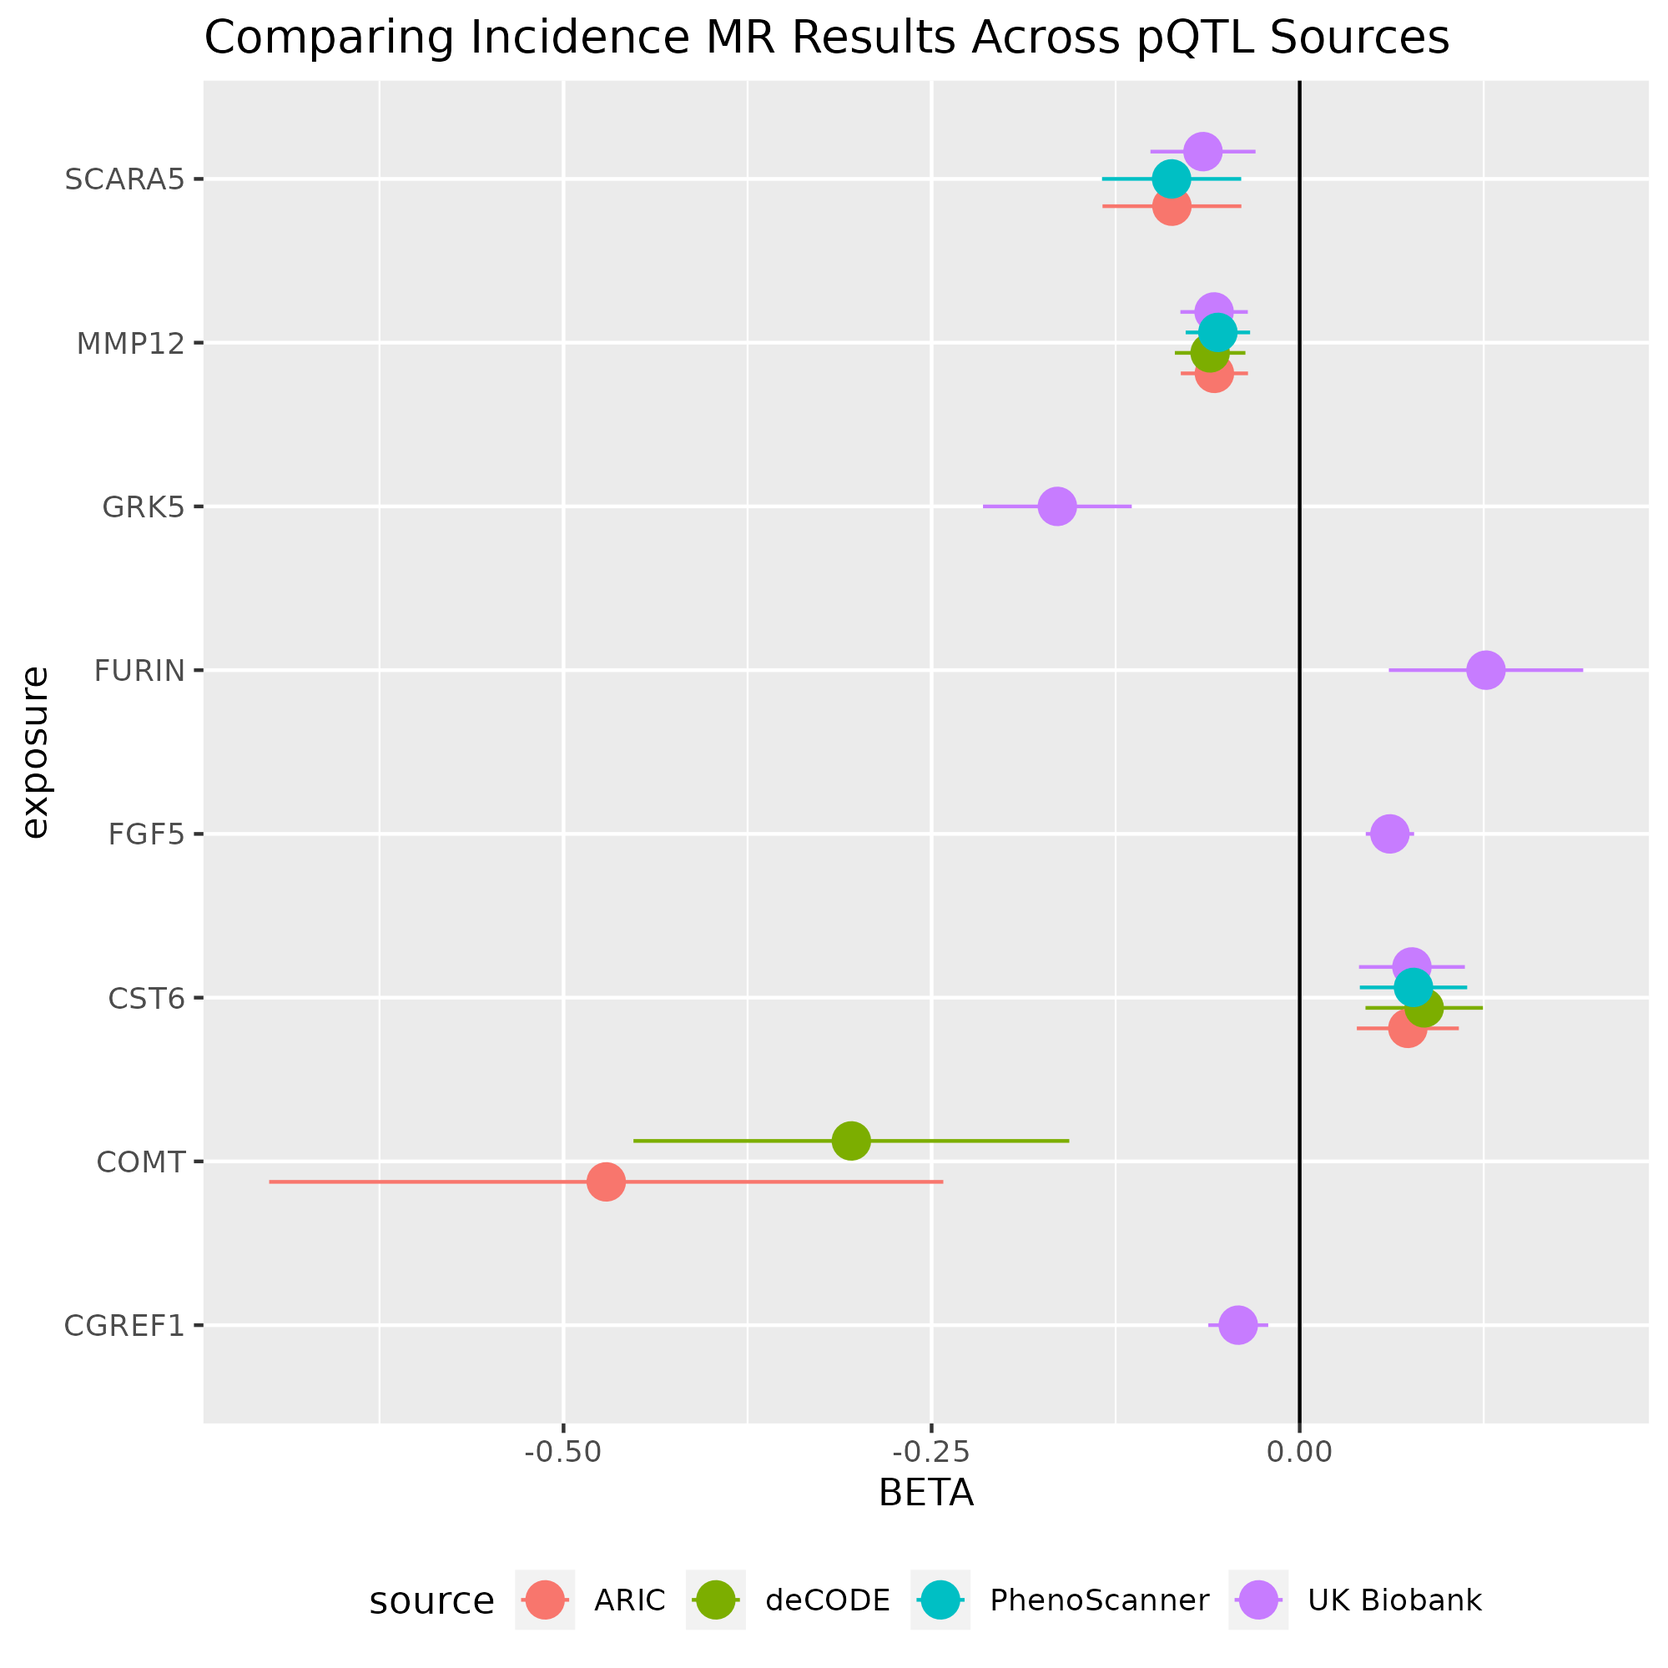
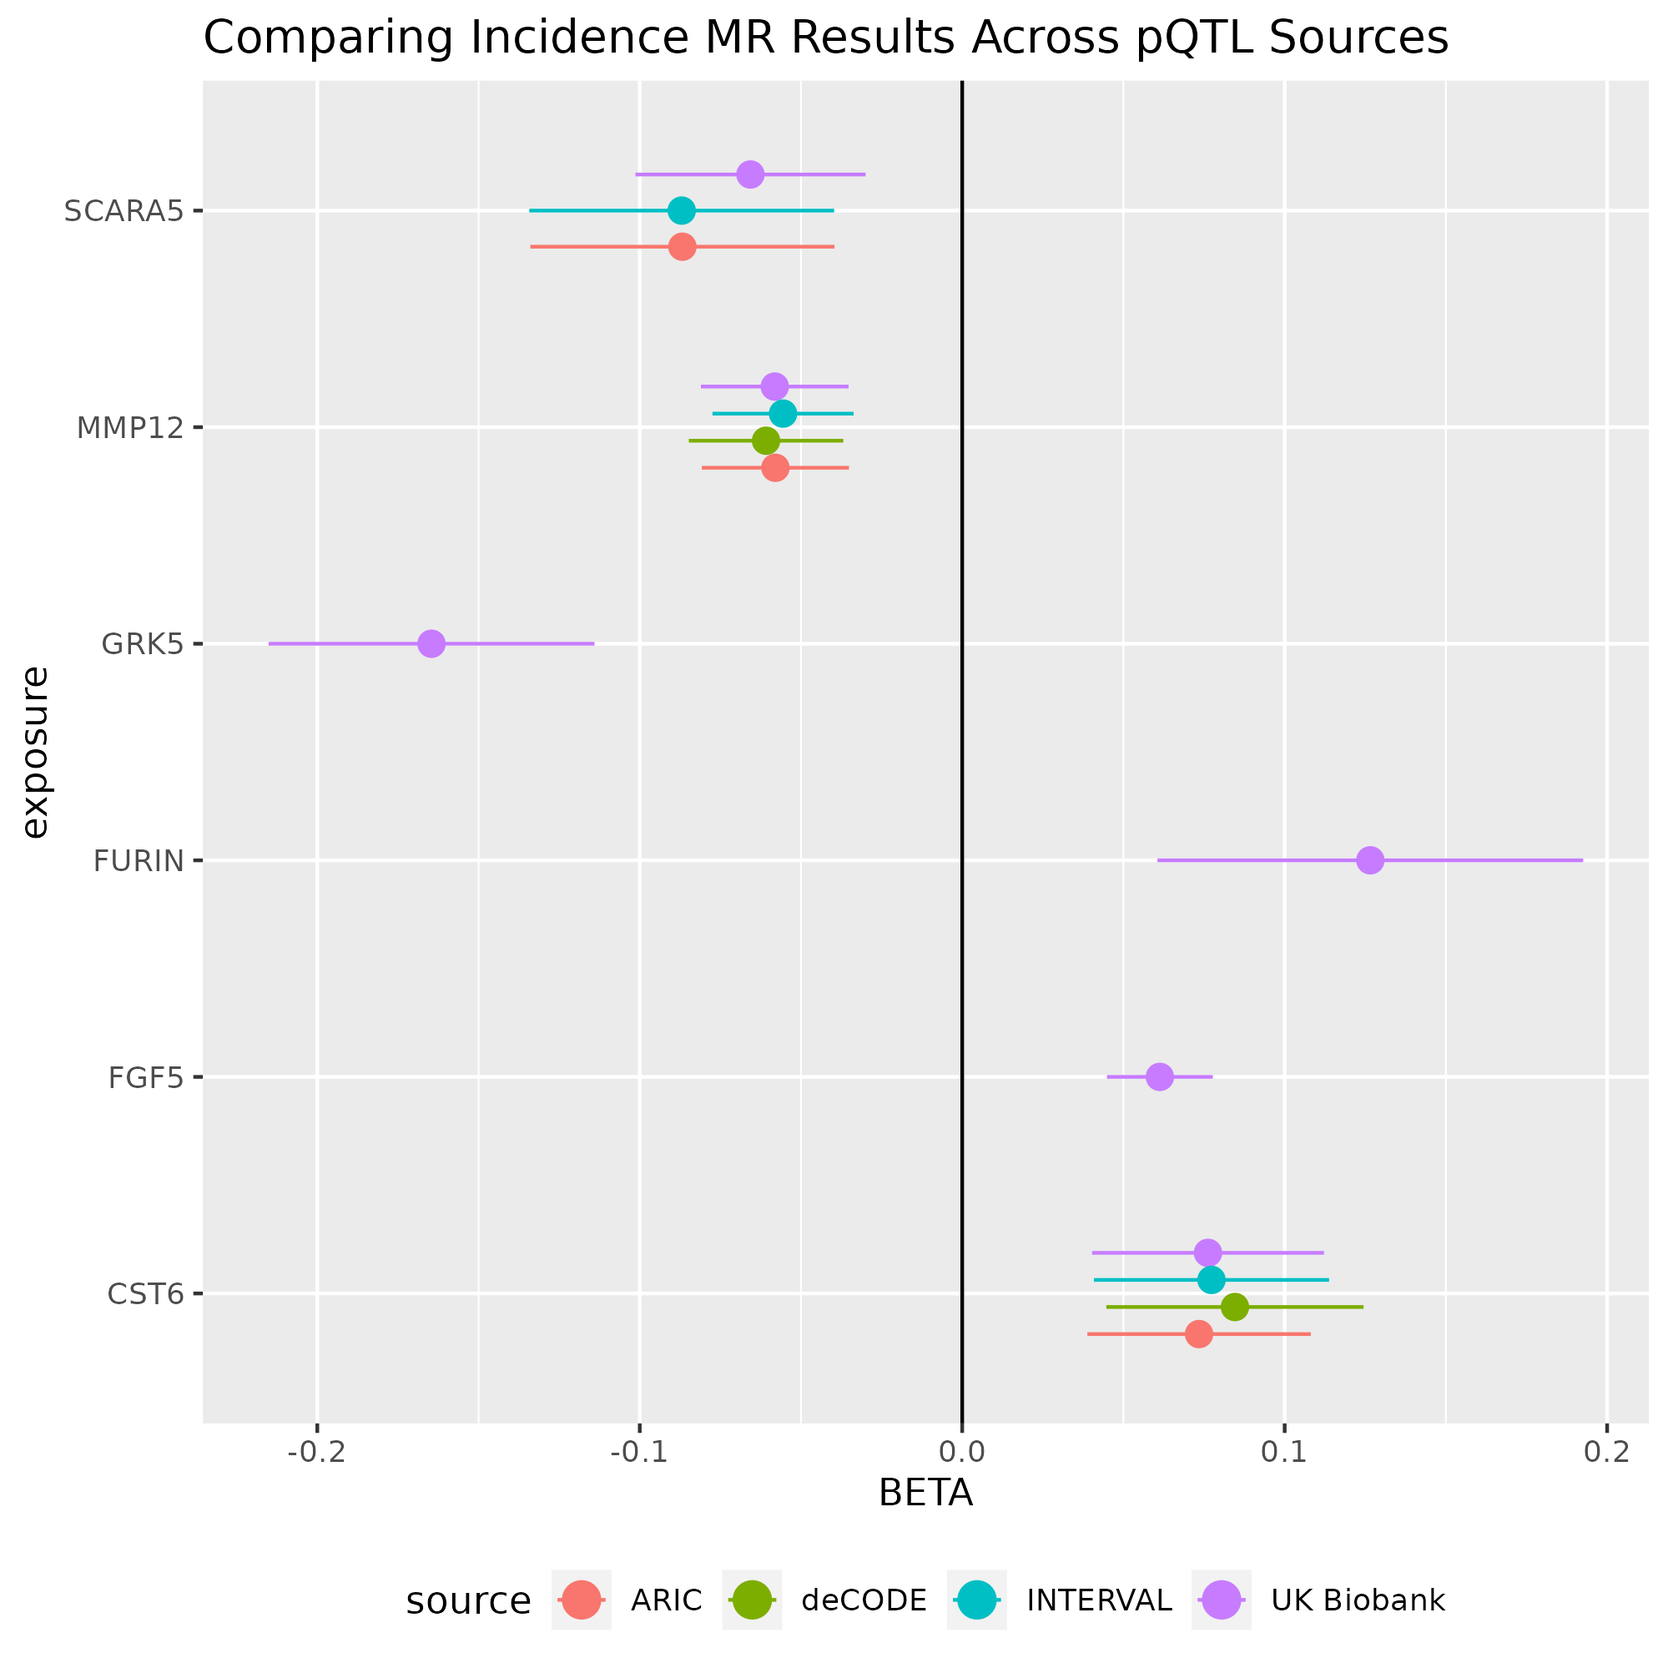
Updating interesting_pqtls.html file to show

diff --git a/docs/interesting_pqtls.html b/docs/interesting_pqtls.html
@@ -14613,49 +14613,18 @@ body[data-format='mobile'] .jp-OutputArea-child .jp-OutputArea-output {
 </div>
 <div class="jp-InputArea jp-Cell-inputArea"><div class="jp-InputPrompt jp-InputArea-prompt">
 </div><div class="jp-RenderedHTMLCommon jp-RenderedMarkdown jp-MarkdownOutput " data-mime-type="text/markdown">
-<h2 id="Interesting-pQTLs-for-subsequent-states">Interesting pQTLs for subsequent states<a class="anchor-link" href="#Interesting-pQTLs-for-subsequent-states">&#182;</a></h2><table>
+<h2 id="Interesting-pQTLs-for-subsequent-states">Interesting pQTLs for subsequent states<a class="anchor-link" href="#Interesting-pQTLs-for-subsequent-states">&#182;</a></h2><h3 id="Incidence-pQTLs">Incidence pQTLs<a class="anchor-link" href="#Incidence-pQTLs">&#182;</a></h3><p><img src="scratch/results/plots/forest_plots/incidence_pqtl_comparison.png" alt="alt" /></p>
+<h3 id="Subsequent-pQTLs">Subsequent pQTLs<a class="anchor-link" href="#Subsequent-pQTLs">&#182;</a></h3><table>
 <thead>
 <tr>
-  <th>CCL27</th>
-  <th>IL19</th>
-  <th>TNFRSF14</th>
+  <th>Subsequent MACE</th>
+  <th>Subsequent AIS</th>
 </tr>
 </thead>
 <tbody>
 <tr>
-  <td><img src="scratch/results/plots/forest_plots/CCL27_mr.png" alt="alt" /></td>
-  <td><img src="scratch/results/plots/forest_plots/IL19_mr.png" alt="alt" /></td>
-  <td><img src="scratch/results/plots/forest_plots/TNFRSF14_mr.png" alt="alt" /></td>
-</tr>
-</tbody>
-</table>
-<h2 id="Interesting-pQTLs-for-incidence-states">Interesting pQTLs for incidence states<a class="anchor-link" href="#Interesting-pQTLs-for-incidence-states">&#182;</a></h2><table>
-<thead>
-<tr>
-  <th>.</th>
-  <th>.</th>
-</tr>
-</thead>
-<tbody>
-<tr>
-  <td><img src="scratch/results/plots/forest_plots/SCARA5_mr.png" alt="alt" /></td>
-  <td><img src="scratch/results/plots/forest_plots/FURIN_mr.png" alt="alt" /></td>
-</tr>
-<tr>
-  <td><img src="scratch/results/plots/forest_plots/MMP12_mr.png" alt="alt" /></td>
-  <td><img src="scratch/results/plots/forest_plots/GRK5_mr.png" alt="alt" /></td>
-</tr>
-<tr>
-  <td><img src="scratch/results/plots/forest_plots/KLK1_mr.png" alt="alt" /></td>
-  <td><img src="scratch/results/plots/forest_plots/PFKFB2_mr.png" alt="alt" /></td>
-</tr>
-<tr>
-  <td><img src="scratch/results/plots/forest_plots/CST6_mr.png" alt="alt" /></td>
-  <td><img src="scratch/results/plots/forest_plots/FGF5_mr.png" alt="alt" /></td>
-</tr>
-<tr>
-  <td><img src="scratch/results/plots/forest_plots/CGREF1_mr.png" alt="alt" /></td>
-  <td><img src="scratch/results/plots/forest_plots/COMT_mr.png" alt="alt" /></td>
+  <td><img src="scratch/results/plots/forest_plots/sub_mace_pqtl_comparison.png" alt="alt" /></td>
+  <td><img src="scratch/results/plots/forest_plots/sub_ais_pqtl_comparison.png" alt="alt" /></td>
 </tr>
 </tbody>
 </table>
@@ -14709,58 +14678,6 @@ body[data-format='mobile'] .jp-OutputArea-child .jp-OutputArea-output {
 </tr>
 </tbody>
 </table>
-<table>
-<thead>
-<tr>
-  <th>Exposure</th>
-  <th>Subsequent AIS</th>
-  <th>Subsequent MACE</th>
-</tr>
-</thead>
-<tbody>
-<tr>
-  <td>CCL27</td>
-  <td><img src="scratch/results/plots/forest_plots/subsequent_ais_9_34649442.png" alt="alt" /></td>
-  <td><img src="scratch/results/plots/forest_plots/subsequent_mace_9_34649442.png" alt="alt" /></td>
-</tr>
-<tr>
-  <td>IL19</td>
-  <td><img src="scratch/results/plots/forest_plots/subsequent_ais_1_207015957.png" alt="alt" /></td>
-  <td><img src="scratch/results/plots/forest_plots/subsequent_mace_1_207015957.png" alt="alt" /></td>
-</tr>
-<tr>
-  <td>TNFRSF14</td>
-  <td><img src="scratch/results/plots/forest_plots/subsequent_ais_1_2488930.png" alt="alt" /></td>
-  <td><img src="scratch/results/plots/forest_plots/subsequent_mace_1_2488930.png" alt="alt" /></td>
-</tr>
-</tbody>
-</table>
-<table>
-<thead>
-<tr>
-  <th>Exposure</th>
-  <th>Subsequent AIS</th>
-  <th>Subsequent MACE</th>
-</tr>
-</thead>
-<tbody>
-<tr>
-  <td>CCL27</td>
-  <td><img src="scratch/results/plots/forest_plots/subsequent_ais_9_34649442.png" alt="alt" /></td>
-  <td><img src="scratch/results/plots/forest_plots/subsequent_mace_9_34649442.png" alt="alt" /></td>
-</tr>
-<tr>
-  <td>IL19</td>
-  <td><img src="scratch/results/plots/forest_plots/subsequent_ais_1_207015957.png" alt="alt" /></td>
-  <td><img src="scratch/results/plots/forest_plots/subsequent_mace_1_207015957.png" alt="alt" /></td>
-</tr>
-<tr>
-  <td>TNFRSF14</td>
-  <td><img src="scratch/results/plots/forest_plots/subsequent_ais_1_2488930.png" alt="alt" /></td>
-  <td><img src="scratch/results/plots/forest_plots/subsequent_mace_1_2488930.png" alt="alt" /></td>
-</tr>
-</tbody>
-</table>
 
 </div>
 </div>
@@ -14808,19 +14725,11 @@ body[data-format='mobile'] .jp-OutputArea-child .jp-OutputArea-output {
 <div class="jp-Collapser jp-InputCollapser jp-Cell-inputCollapser">
 </div>
 <div class="jp-InputArea jp-Cell-inputArea">
-<div class="jp-InputPrompt jp-InputArea-prompt">In&nbsp;[22]:</div>
+<div class="jp-InputPrompt jp-InputArea-prompt">In&nbsp;[2]:</div>
 <div class="jp-CodeMirrorEditor jp-Editor jp-InputArea-editor" data-type="inline">
      <div class="CodeMirror cm-s-jupyter">
-<div class=" highlight hl-r"><pre><span></span><span class="n">incidence_exposures</span><span class="w"> </span><span class="o">&lt;-</span><span class="w"> </span><span class="n">data.table</span><span class="o">::</span><span class="nf">fread</span><span class="p">(</span><span class="s">&quot;scratch/results/coloc/incidence_coloc_analysis.tsv&quot;</span><span class="p">,</span><span class="w"> </span><span class="n">select</span><span class="o">=</span><span class="nf">c</span><span class="p">(</span><span class="s">&quot;exposure&quot;</span><span class="p">,</span><span class="w"> </span><span class="s">&quot;incidence.coloc.h4&quot;</span><span class="p">))</span>
-
-<span class="n">subsequent</span><span class="w"> </span><span class="o">&lt;-</span><span class="w"> </span><span class="n">data.table</span><span class="o">::</span><span class="nf">fread</span><span class="p">(</span><span class="s">&quot;scratch/results/coloc/subsequent_coloc_analysis_non_adjusted.tsv&quot;</span><span class="p">,</span><span class="w"> </span><span class="n">select</span><span class="o">=</span><span class="nf">c</span><span class="p">(</span><span class="s">&quot;exposure&quot;</span><span class="p">,</span><span class="w"> </span><span class="s">&quot;subsequent_ais.coloc.h4&quot;</span><span class="p">,</span><span class="w"> </span><span class="s">&quot;subsequent_mace.coloc.h4&quot;</span><span class="p">))</span>
-<span class="n">subsequent_sh</span><span class="w"> </span><span class="o">&lt;-</span><span class="w"> </span><span class="n">data.table</span><span class="o">::</span><span class="nf">fread</span><span class="p">(</span><span class="s">&quot;scratch/results/coloc/subsequent_coloc_analysis_slopehunter.tsv&quot;</span><span class="p">,</span><span class="w"> </span><span class="n">select</span><span class="o">=</span><span class="nf">c</span><span class="p">(</span><span class="s">&quot;exposure&quot;</span><span class="p">,</span><span class="w"> </span><span class="s">&quot;subsequent_ais_sh.coloc.h4&quot;</span><span class="p">,</span><span class="w"> </span><span class="s">&quot;subsequent_mace_sh.coloc.h4&quot;</span><span class="p">))</span>
-
-<span class="n">subsequent</span><span class="w"> </span><span class="o">&lt;-</span><span class="w"> </span><span class="nf">merge</span><span class="p">(</span><span class="n">subsequent</span><span class="p">,</span><span class="w"> </span><span class="n">subsequent_sh</span><span class="p">,</span><span class="w"> </span><span class="n">by</span><span class="o">=</span><span class="s">&quot;exposure&quot;</span><span class="p">)</span>
-<span class="n">subsequent</span><span class="w"> </span><span class="o">&lt;-</span><span class="w"> </span><span class="nf">merge</span><span class="p">(</span><span class="n">subsequent</span><span class="p">,</span><span class="w"> </span><span class="n">incidence_exposures</span><span class="p">,</span><span class="w"> </span><span class="n">by</span><span class="o">=</span><span class="s">&quot;exposure&quot;</span><span class="p">)</span>
-<span class="n">incidence_exposures</span><span class="o">$</span><span class="n">incidence.coloc.h4</span><span class="w"> </span><span class="o">&lt;-</span><span class="w"> </span><span class="nf">format</span><span class="p">(</span><span class="n">incidence_exposures</span><span class="o">$</span><span class="n">incidence.coloc.h4</span><span class="p">,</span><span class="w"> </span><span class="n">scientific</span><span class="w"> </span><span class="o">=</span><span class="w"> </span><span class="kc">FALSE</span><span class="p">)</span>
-<span class="n">incidence_exposures</span><span class="p">[</span><span class="nf">with</span><span class="p">(</span><span class="n">incidence_exposures</span><span class="p">,</span><span class="w"> </span><span class="nf">order</span><span class="p">(</span><span class="n">incidence.coloc.h4</span><span class="p">,</span><span class="w"> </span><span class="n">decreasing</span><span class="o">=</span><span class="bp">T</span><span class="p">)),</span><span class="w"> </span><span class="p">]</span>
-<span class="n">subsequent</span>
+<div class=" highlight hl-r"><pre><span></span><span class="n">consolidated_coloc_results</span><span class="w"> </span><span class="o">&lt;-</span><span class="w"> </span><span class="n">data.table</span><span class="o">::</span><span class="nf">fread</span><span class="p">(</span><span class="s">&quot;scratch/results/coloc/consolidated_coloc_results.csv&quot;</span><span class="p">)</span>
+<span class="n">consolidated_coloc_results</span>
 </pre></div>
 
      </div>
@@ -14842,48 +14751,23 @@ body[data-format='mobile'] .jp-OutputArea-child .jp-OutputArea-output {
 
 <div class="jp-RenderedHTMLCommon jp-RenderedHTML jp-OutputArea-output " data-mime-type="text/html">
 <table class="dataframe">
-<caption>A data.table: 13 × 2</caption>
+<caption>A data.table: 11 × 9</caption>
 <thead>
-	<tr><th scope=col>exposure</th><th scope=col>incidence.coloc.h4</th></tr>
-	<tr><th scope=col>&lt;chr&gt;</th><th scope=col>&lt;chr&gt;</th></tr>
+	<tr><th scope=col>Exposure</th><th scope=col>Incidence BETA</th><th scope=col>Incidence SE</th><th scope=col>Incidence Adjusted P</th><th scope=col>Incidence coloc</th><th scope=col>Subsequent BETA</th><th scope=col>Subsequent SE</th><th scope=col>Subsequent Adjusted P</th><th scope=col>Subsequent coloc</th></tr>
+	<tr><th scope=col>&lt;chr&gt;</th><th scope=col>&lt;dbl&gt;</th><th scope=col>&lt;dbl&gt;</th><th scope=col>&lt;dbl&gt;</th><th scope=col>&lt;chr&gt;</th><th scope=col>&lt;dbl&gt;</th><th scope=col>&lt;dbl&gt;</th><th scope=col>&lt;dbl&gt;</th><th scope=col>&lt;chr&gt;</th></tr>
 </thead>
 <tbody>
-	<tr><td>GRK5    </td><td>0.999999642</td></tr>
-	<tr><td>FURIN   </td><td>0.950720177</td></tr>
-	<tr><td>FGF5    </td><td>0.949809624</td></tr>
-	<tr><td>MMP12   </td><td>0.888244567</td></tr>
-	<tr><td>CST6    </td><td>0.858120641</td></tr>
-	<tr><td>SCARA5  </td><td>0.765744118</td></tr>
-	<tr><td>IL19    </td><td>0.051339790</td></tr>
-	<tr><td>COMT    </td><td>0.023811206</td></tr>
-	<tr><td>CGREF1  </td><td>0.009706695</td></tr>
-	<tr><td>CCL27   </td><td>0.007844209</td></tr>
-	<tr><td>TNFRSF14</td><td>0.004096936</td></tr>
-	<tr><td>PFKFB2  </td><td>0.003866395</td></tr>
-	<tr><td>KLK1    </td><td>         NA</td></tr>
-</tbody>
-</table>
-
-</div>
-
-</div>
-<div class="jp-OutputArea-child">
-    
-    <div class="jp-OutputPrompt jp-OutputArea-prompt"></div>
-
-
-
-<div class="jp-RenderedHTMLCommon jp-RenderedHTML jp-OutputArea-output " data-mime-type="text/html">
-<table class="dataframe">
-<caption>A data.table: 3 × 6</caption>
-<thead>
-	<tr><th scope=col>exposure</th><th scope=col>subsequent_ais.coloc.h4</th><th scope=col>subsequent_mace.coloc.h4</th><th scope=col>subsequent_ais_sh.coloc.h4</th><th scope=col>subsequent_mace_sh.coloc.h4</th><th scope=col>incidence.coloc.h4</th></tr>
-	<tr><th scope=col>&lt;chr&gt;</th><th scope=col>&lt;dbl&gt;</th><th scope=col>&lt;dbl&gt;</th><th scope=col>&lt;dbl&gt;</th><th scope=col>&lt;dbl&gt;</th><th scope=col>&lt;dbl&gt;</th></tr>
-</thead>
-<tbody>
-	<tr><td>CCL27   </td><td>0.7908463</td><td>0.6831721</td><td>0.57998750</td><td>0.4718510</td><td>0.007844209</td></tr>
-	<tr><td>IL19    </td><td>0.2742251</td><td>0.5956402</td><td>0.03211194</td><td>0.3289294</td><td>0.051339790</td></tr>
-	<tr><td>TNFRSF14</td><td>0.8609059</td><td>0.7665866</td><td>0.89135563</td><td>0.8135350</td><td>0.004096936</td></tr>
+	<tr><td>        </td><td>        NA</td><td>      NA</td><td>        NA</td><td>      </td><td>        NA</td><td>       NA</td><td>        NA</td><td>      </td></tr>
+	<tr><td>CST6    </td><td> 0.0762255</td><td>0.018341</td><td>4.8900e-03</td><td>85.80%</td><td>-0.0425718</td><td>0.0430766</td><td>0.96746814</td><td>1.10% </td></tr>
+	<tr><td>FGF5    </td><td> 0.0612967</td><td>0.008378</td><td>1.5500e-10</td><td>94.90%</td><td> 0.0220491</td><td>0.0171983</td><td>0.96198044</td><td>1.00% </td></tr>
+	<tr><td>FURIN   </td><td> 0.1265655</td><td>0.033682</td><td>1.7300e-02</td><td>95.10%</td><td> 0.0163310</td><td>0.0591999</td><td>0.98726980</td><td>0.40% </td></tr>
+	<tr><td>GRK5    </td><td>-0.1645800</td><td>0.025777</td><td>5.1900e-08</td><td>99.90%</td><td>-0.0416407</td><td>0.0461022</td><td>0.96746814</td><td>0.90% </td></tr>
+	<tr><td>MMP12   </td><td>-0.0581340</td><td>0.011680</td><td>1.3000e-04</td><td>88.80%</td><td>-0.0275229</td><td>0.0216155</td><td>0.96198044</td><td>1.30% </td></tr>
+	<tr><td>SCARA5  </td><td>-0.0656700</td><td>0.018208</td><td>2.6800e-02</td><td>76.60%</td><td>-0.0101490</td><td>0.0358202</td><td>0.98726982</td><td>0.70% </td></tr>
+	<tr><td>        </td><td>        NA</td><td>      NA</td><td>        NA</td><td>      </td><td>        NA</td><td>       NA</td><td>        NA</td><td>      </td></tr>
+	<tr><td>CCL27   </td><td>-0.0389430</td><td>0.039551</td><td>8.3059e-01</td><td>0.70% </td><td>-0.2612990</td><td>0.0564827</td><td>0.00617833</td><td>68.30%</td></tr>
+	<tr><td>IL19    </td><td>-0.0371690</td><td>0.017591</td><td>4.9635e-01</td><td>5.10% </td><td>-0.1378942</td><td>0.0340479</td><td>0.05341999</td><td>69.50%</td></tr>
+	<tr><td>TNFRSF14</td><td> 0.0005410</td><td>0.001262</td><td>9.4934e-01</td><td>0.40% </td><td> 0.3502169</td><td>0.0923457</td><td>0.04686215</td><td>81.60%</td></tr>
 </tbody>
 </table>
 
@@ -14905,41 +14789,48 @@ body[data-format='mobile'] .jp-OutputArea-child .jp-OutputArea-output {
 <table>
 <thead>
 <tr>
+  <th>pQTL</th>
+  <th>Incidence</th>
   <th>Subsequent Unadjusted</th>
-  <th>Subsequent SlopeHunter</th>
-  <th>Subsequent Incidence</th>
+  <th>Subsequent SlopeHunter </th>
 </tr>
 </thead>
 <tbody>
 <tr>
+  <td>CCL27</td>
+  <td><img src="scratch/results/plots/coloc/CCL27_pqtl_vs_incidence.png" alt="alt" /></td>
   <td><img src="scratch/results/plots/coloc/CCL27_pqtl_vs_subsequent_mace.png" alt="alt" /></td>
   <td><img src="scratch/results/plots/coloc/CCL27_pqtl_vs_subsequent_mace_sh.png" alt="alt" /></td>
-  <td><img src="scratch/results/plots/coloc/CCL27_pqtl_vs_incidence.png" alt="alt" /></td>
 </tr>
 <tr>
-  <td>coloc h4 = 68%</td>
-  <td>coloc h4 = 47%</td>
-  <td>coloc h4 = 0.7%</td>
+  <td>coloc h4 %</td>
+  <td>0.7%</td>
+  <td>68%</td>
+  <td>57%</td>
 </tr>
 <tr>
+  <td>IL19</td>
+  <td><img src="scratch/results/plots/coloc/IL19_pqtl_vs_incidence.png" alt="alt" /></td>
   <td><img src="scratch/results/plots/coloc/IL19_pqtl_vs_subsequent_mace.png" alt="alt" /></td>
   <td><img src="scratch/results/plots/coloc/IL19_pqtl_vs_subsequent_mace_sh.png" alt="alt" /></td>
-  <td><img src="scratch/results/plots/coloc/IL19_pqtl_vs_incidence.png" alt="alt" /></td>
 </tr>
 <tr>
-  <td>coloc h4 = 59%</td>
-  <td>coloc h4 = 32%</td>
-  <td>coloc h4 = 5%</td>
+  <td>coloc h4 %</td>
+  <td>5.1%</td>
+  <td>69%</td>
+  <td>32%</td>
 </tr>
 <tr>
+  <td>TNFRSF14</td>
+  <td><img src="scratch/results/plots/coloc/TNFRSF14_pqtl_vs_incidence.png" alt="alt" /></td>
   <td><img src="scratch/results/plots/coloc/TNFRSF14_pqtl_vs_subsequent_mace.png" alt="alt" /></td>
   <td><img src="scratch/results/plots/coloc/TNFRSF14_pqtl_vs_subsequent_mace_sh.png" alt="alt" /></td>
-  <td><img src="scratch/results/plots/coloc/TNFRSF14_pqtl_vs_incidence.png" alt="alt" /></td>
 </tr>
 <tr>
-  <td>coloc h4 = 86%</td>
-  <td>coloc h4 = 89%</td>
-  <td>coloc h4 = 0.4%</td>
+  <td>coloc h4 %</td>
+  <td>0.4%</td>
+  <td>81%</td>
+  <td>77%</td>
 </tr>
 </tbody>
 </table>
@@ -14961,15 +14852,7 @@ body[data-format='mobile'] .jp-OutputArea-child .jp-OutputArea-output {
 </tr>
 <tr>
   <td><img src="scratch/results/plots/coloc/CST6_pqtl_vs_incidence.png" alt="alt" /></td>
-  <td><img src="scratch/results/plots/coloc/PFKFB2_pqtl_vs_incidence.png" alt="alt" /></td>
-</tr>
-<tr>
-  <td><img src="scratch/results/plots/coloc/KLK1_pqtl_vs_incidence.png" alt="alt" /></td>
   <td><img src="scratch/results/plots/coloc/FGF5_pqtl_vs_incidence.png" alt="alt" /></td>
-</tr>
-<tr>
-  <td><img src="scratch/results/plots/coloc/CGREF1_pqtl_vs_incidence.png" alt="alt" /></td>
-  <td><img src="scratch/results/plots/coloc/COMT_pqtl_vs_incidence.png" alt="alt" /></td>
 </tr>
 </tbody>
 </table>
